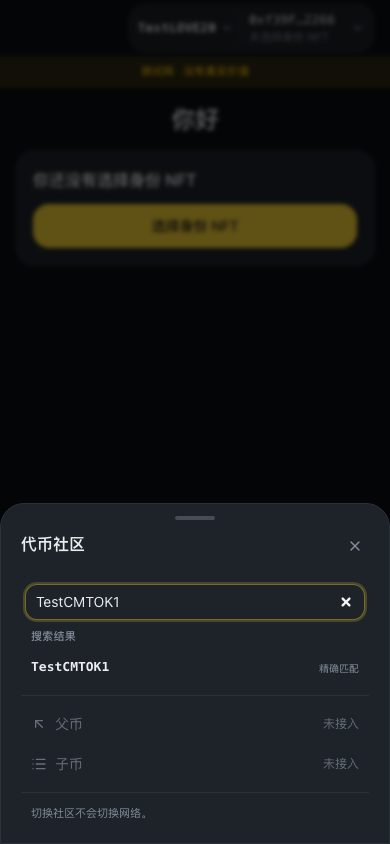
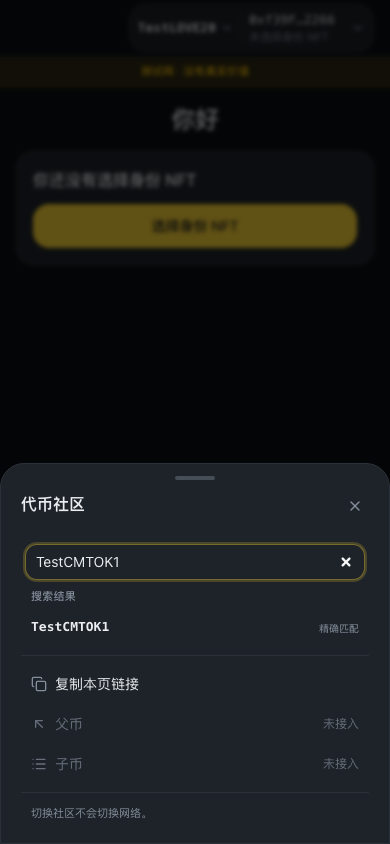
fix(ui): 走查建议执行——错网络保留社区名、复制本页链接、规范回写与链健康探测
owner 2026-11-22 采纳「全按建议做」：
- P2-9 错网络态保留社区名 chip（`header-community-context`）+ 右侧切换按钮
  （mUX §1.4；此状态 chip 只作上下文、不开菜单）
- P2-8b 社区菜单新增「复制本页链接」（`community-copy-link`，带已复制/失败反馈）
- P2-8a 规范回写：钱包弹层不再要求「合约地址」入口，统一走 `/about`
  （mUX §1.6 第 7 项 + 侧栏那条同步）
- P3-2 build id 显示 8 位短 id，完整值进 title
- P3-3 `/about` 地址表补「批量转账」「一键加池（Hub）」（22→24，单测同步）
- P3-4 未授权行撤销按钮补 title
- 新规范 §4.9「空态不给肯定结论」+ §4.8 检查清单（本轮 3 处同类缺陷的根因收口）
- `scripts/e2e-chain.mjs` 复用链前采样 block 两次，假死链给 WARNING + doctor/reset 提示

验证：pnpm check 941 passed / 128 文件；目标 e2e（首页+我的 NFT、批量转账、
社区切换、关于、授权、主题）**66/66**；全量 e2e **167/167（12.1m，EXIT 0）**。

Changed region(s): [[0.0, 0.5237, 1.0, 0.8318]]

diff --git a/src/widgets/connect-pill/community-menu-content.tsx b/src/widgets/connect-pill/community-menu-content.tsx
@@ -1,6 +1,7 @@
 import { useState } from 'react';
-import { ArrowUpLeft, List } from '@/shared/ui/icons';
+import { ArrowUpLeft, Copy, List } from '@/shared/ui/icons';
 import { copy } from '@/shared/config/copy-pages';
+import { copyText } from '@/shared/lib/clipboard';
 import { cn } from '@/shared/lib/cn';
 import { Separator } from '@/shared/ui/separator';
 import { useCommunitySymbolSearch } from '@/features/switch-community/model/use-community-symbol-search';
@@ -50,7 +51,14 @@ export function CommunityMenuContent({
 }: CommunityMenuContentProps) {
   const { recent } = useRecentCommunities();
   const [query, setQuery] = useState('');
+  const [linkState, setLinkState] = useState<'idle' | 'copied' | 'failed'>('idle');
   const search = useCommunitySymbolSearch(query);
+
+  const copyPageLink = async () => {
+    const ok = await copyText(window.location.href);
+    setLinkState(ok ? 'copied' : 'failed');
+    if (ok) window.setTimeout(() => setLinkState('idle'), 2000);
+  };
   const others = recent.filter((entry) => entry.symbol !== currentSymbol);
   const searching = search.status !== 'idle';
 
@@ -179,6 +187,30 @@ export function CommunityMenuContent({
       )}
 
       <Separator className="my-2" />
+      <button
+        type="button"
+        data-testid="community-copy-link"
+        onClick={() => {
+          void copyPageLink();
+        }}
+        className={cn(
+          'flex w-full items-center gap-2 rounded-xl px-2.5 py-2.5 text-left text-sm',
+          'hover:bg-elevated focus-visible:outline-none focus-visible:ring-2 focus-visible:ring-brand-strong',
+        )}
+      >
+        <Copy className="h-4 w-4 text-muted" aria-hidden="true" />
+        <span className="flex-1">{copy.community.copyLink}</span>
+        {linkState === 'copied' ? (
+          <span className="text-[11px] text-success" role="status">
+            {copy.community.linkCopied}
+          </span>
+        ) : null}
+        {linkState === 'failed' ? (
+          <span className="text-[11px] text-danger-strong" role="alert">
+            {copy.community.linkCopyFailed}
+          </span>
+        ) : null}
+      </button>
       <StubRow
         icon={<ArrowUpLeft className="h-4 w-4" />}
         label={copy.community.parent}

diff --git a/src/widgets/connect-pill/connect-pill.tsx b/src/widgets/connect-pill/connect-pill.tsx
@@ -51,7 +51,25 @@ export function ConnectPill() {
 
   // D11: the injected wallet's own chain answers before the dapp is connected,
   // so an installed wallet on another chain gets the switch pill, not 「连接钱包」.
-  if (wallet.isWrongChain) return <WrongNetworkButton />;
+  // 走查 2026-11-21（P2-9）：错网络时只留一个切换按钮会让用户丢失「我在哪个社区」
+  // （移动端尤其，chip 是唯一社区名位置）。按 §1.4「已连接含错网络 = chip + 地址区」，
+  // 这里保留社区名，右侧换成切换按钮；此状态下 chip 只作上下文展示、不开菜单
+  // （钱包不可用时开社区菜单也没有可用的链上数据）。
+  if (wallet.isWrongChain) {
+    return (
+      <div className="inline-flex h-12 max-w-full min-w-0 items-center gap-2 overflow-hidden rounded-2xl border border-line bg-surface/85 px-3 shadow-sm backdrop-blur">
+        <span
+          data-testid="header-community-context"
+          className="max-w-[96px] truncate font-mono text-[13px] font-semibold text-foreground"
+          title={copy.community.menuTitle}
+        >
+          {chipSymbol}
+        </span>
+        <span className="h-5 w-px shrink-0 bg-line" aria-hidden="true" />
+        <WrongNetworkButton />
+      </div>
+    );
+  }
   if (!wallet.isConnected) {
     return <ConnectWalletButton variant="secondary" className="rounded-full" />;
   }

diff --git a/src/shared/config/copy-pages.ts b/src/shared/config/copy-pages.ts
@@ -74,6 +74,10 @@ export const copy = {
     searchError: '社区列表暂时读不到。',
     searchExact: '精确匹配',
     searchCurrent: '当前',
+    /** 走查 2026-11-21（P2-8b）：规范 §1.5 要求社区菜单能复制本页链接（分享社区入口）。 */
+    copyLink: '复制本页链接',
+    linkCopied: '链接已复制',
+    linkCopyFailed: '复制失败，请手动复制地址栏链接。',
   },
   /** M0 placeholder pages (行动 / 链群 / 我的): only titles are needed by the eager header. */
   placeholders: {
@@ -958,6 +962,7 @@ export const copy = {
     addressCopied: '已复制',
     copyFailed: '复制失败，请手动选中地址',
     revoke: '撤销',
+    revokeDisabled: '当前没有可撤销的授权',
     unlimitedAction: '长期授权',
     preferenceLabel: '默认使用长期授权',
     preferenceBody:
@@ -1151,6 +1156,8 @@ export const copy = {
         groupActionExecutor: '链群行动执行器',
         groupServiceExecutor: '链群服务执行器',
         lpExecutor: 'LP 执行器',
+        batchTransfer: '批量转账',
+        hub: '一键加池',
         groupChat: '链群聊天',
         groupChatMember: '链群成员',
         groupChatAdmin: '链群管理',

diff --git a/src/features/approve-token/ui/approval-panel.tsx b/src/features/approve-token/ui/approval-panel.tsx
@@ -632,6 +632,11 @@ export function ApprovalsPanel({ isConnected, isWrongChain, connectAction }: App
                     size="sm"
                     variant="secondary"
                     data-testid="approvals-custom-revoke"
+                    title={
+                      !canRevokeAllowance(customAllowance)
+                        ? copy.approvals.revokeDisabled
+                        : undefined
+                    }
                     disabled={busy || !canRevokeAllowance(customAllowance)}
                     onClick={() => openAction(customSpender, customSpenderLabel, 'revoke')}
                   >
@@ -742,6 +747,9 @@ export function ApprovalsPanel({ isConnected, isWrongChain, connectAction }: App
                         size="sm"
                         variant="secondary"
                         data-testid={`approvals-revoke-${spender.id}`}
+                        title={
+                          !canRevokeAllowance(allowance) ? copy.approvals.revokeDisabled : undefined
+                        }
                         disabled={busy || !canRevokeAllowance(allowance)}
                         onClick={() => openAction(spender.address, item.label, 'revoke')}
                       >

diff --git a/src/domain/about-addresses.test.ts b/src/domain/about-addresses.test.ts
@@ -22,7 +22,8 @@ describe('about address groups', () => {
     const keys = ABOUT_ADDRESS_GROUPS.flatMap((group) => group.entries);
 
     expect(new Set(keys).size).toBe(keys.length);
-    expect(keys).toHaveLength(22);
+    // 走查 2026-11-21（P3-3）：补了「批量转账」「一键加池」，22 → 24。
+    expect(keys).toHaveLength(24);
     expect(ABOUT_ADDRESS_GROUPS.map((group) => group.key)).toEqual([
       'core',
       'tokenIdentity',
@@ -37,7 +38,7 @@ describe('about address groups', () => {
     const groups = resolveAboutAddressGroups(book, 'https://bscscan.com');
 
     const rows = groups.flatMap((group) => group.rows);
-    expect(rows).toHaveLength(22);
+    expect(rows).toHaveLength(24);
     const member = rows.find((row) => row.key === 'memberNFT');
     const airdrop = rows.find((row) => row.key === 'airdropDistributor');
     expect(member?.address).toBeUndefined();

diff --git a/src/domain/about-addresses.ts b/src/domain/about-addresses.ts
@@ -30,6 +30,8 @@ export type AboutAddressKey =
   | 'groupActionExecutor'
   | 'groupServiceExecutor'
   | 'lpExecutor'
+  | 'batchTransfer'
+  | 'hub'
   | 'airdropDistributor';
 
 export type AboutAddressGroupKey = 'core' | 'tokenIdentity' | 'trade' | 'groupChat' | 'other';
@@ -68,6 +70,8 @@ export const ABOUT_ADDRESS_GROUPS: readonly AboutAddressGroupDefinition[] = Obje
       'groupActionExecutor',
       'groupServiceExecutor',
       'lpExecutor',
+      'batchTransfer',
+      'hub',
       'airdropDistributor',
     ],
   },

diff --git a/src/pages/about/about-page.tsx b/src/pages/about/about-page.tsx
@@ -291,7 +291,9 @@ function DataPanel({ symbol }: { readonly symbol: string }) {
         {renderValue(data.phase, (value) => formatPhaseValue(value))}
       </DataRow>
       <DataRow label={copy.about.data.appVersion}>{variantLabel(APP_ENV.variant)}</DataRow>
-      <DataRow label={copy.about.data.buildNumber}>{formatBuildId(BUILD_ID)}</DataRow>
+      <DataRow label={copy.about.data.buildNumber}>
+        <span title={BUILD_ID}>{formatBuildId(BUILD_ID)}</span>
+      </DataRow>
     </dl>
   );
 }

diff --git a/src/shared/lib/format.ts b/src/shared/lib/format.ts
@@ -206,5 +206,7 @@ export function formatTokenAmount(
  * from silently pinning the browser locale.
  */
 export function formatBuildId(buildId: string): string {
-  return buildId.length > 12 ? buildId.slice(0, 12) : buildId;
+  // 走查 2026-11-21（P3-2）：截 12 位会切在时间戳中间（`mwqjfm06-6f2` 像乱码）。
+  // 只显示时间戳前缀（8 位），完整 build id 由调用方放进 `title` 供定位构建。
+  return buildId.length > 8 ? buildId.slice(0, 8) : buildId;
 }

diff --git a/src/app/shell/desktop-sidebar.tsx b/src/app/shell/desktop-sidebar.tsx
@@ -108,7 +108,7 @@ export function DesktopSidebar({ collapsed, onToggle }: DesktopSidebarProps) {
                 {variantLabel(APP_ENV.variant)}
               </Badge>
             </div>
-            <p className="font-mono text-[10px] text-muted">
+            <p className="font-mono text-[10px] text-muted" title={BUILD_ID}>
               {copy.build.version(formatBuildId(BUILD_ID))}
             </p>
           </div>

diff --git a/docs/STATUS.md b/docs/STATUS.md
@@ -56,6 +56,8 @@ M0 范围共 6 项（[m0-scope](product/m0-scope.md)「范围内」）。✅ 完
 
 | — | 2026-11-22 全站走查（ego-browser，26/26 路由）+ 缺陷修复 | ✅ | owner 要求「起一个 agent 用 ego Browser 把所有页面、所有操作走一遍，看功能/文案/数值（三线）/样式」。走查报告：[reviews/full-site-walkthrough-2026-11-21.md](reviews/full-site-walkthrough-2026-11-21.md)（覆盖矩阵、17 条发现、24 项数值三线对照、105 张证据截图在 `/tmp/full-walkthrough/`）。结论：**0 P0**，主流程全部可跑通；24 项三线抽检 22 项逐字一致。修复（13 条）：**P1-1** 资格句百分比丢 `%`（0.5% 被读成 0.5 倍）→ `submitRatioPercent` 自带 `%` + 4 条单测；**P1-2** 点「设为当前身份」后页头药丸停在「—」→ 选中 token 不在枚举列表时单读 `memberName` 回填 + e2e 断言；**P2**：空投已铸造态 CTA 按有无身份分流（去治理/去铸造）、404 页头标题、投票页无额度错误口吻、投票超额即时给原因、提案页门槛重复两行、质押页空表单首屏报红、空态断言「不需要授权」（add/stake liquidity 均改）、pending 文案时间基准；**P3-5** 「铸造 治理激励」空格。待 owner 拍板：P2-8 规范/实现漂移（钱包弹层「合约地址」、社区菜单「复制本页链接」）、P2-9 移动端错网络无社区名（§1.3 与 §1.4 冲突）。backlog：P3-2 build id 截断显示、P3-3 `/about` 缺两条合约地址、P3-4 禁用「撤销」无 title。验证：`pnpm check` **941 passed / 128 文件**；受影响 e2e 逐项复跑（见提交信息）；期间 8555 anvil 假死一次，按 playbook `pnpm e2e:reset-chain` 恢复（与代码无关）。 |
 
+| — | 2026-11-22 走查建议执行（P2-8/P2-9 + P3 + 规范/脚本） | ✅ | owner 采纳「全按建议做」：① **P2-9** 错网络态保留社区名 chip（`header-community-context`）+ 右侧切换按钮（按 mUX §1.4，不再让移动端丢社区归属；chip 此状态只作上下文、不开菜单）；② **P2-8b** 社区菜单新增「复制本页链接」（`community-copy-link` + 「链接已复制 / 复制失败」）；③ **P2-8a** 规范回写：钱包弹层不再要求「合约地址」入口，统一走 `/about`（mUX §1.6 第 7 项 + 侧栏那条）；④ **P3-2** build id 显示 8 位短 id、完整值进 `title`；⑤ **P3-3** `/about` 地址表补「批量转账」「一键加池（Hub）」（22→24 槽，单测同步）；⑥ **P3-4** 未授权行撤销按钮补 `title`；⑦ **新规范 §4.9「空态不给肯定结论」**（frontend-standards，含口诀与实现约定 + §4.8 清单）；⑧ `scripts/e2e-chain.mjs` 复用链前加 `warnWhenChainIsFrozen`（采样 block，假死时 WARNING + doctor/reset 提示，不误杀慢链）。验证：`pnpm check` **941 passed / 128 文件**；目标 e2e（首页/我的 NFT、批量转账、社区切换、关于、授权、主题）+ 全量 e2e；文档 [reviews/full-site-walkthrough-2026-11-21.md](reviews/full-site-walkthrough-2026-11-21.md) §8.1/§8.2 同步。 |
+
 **未完成清单（别误读为 done）**：三处真机体验、test/prod 地址簿填充（协议尚未在 BSC 测试网/主网部署，两个变体的五个应用页按「未配置」禁用入口）、M1 的**行动域**（回调提案的推举/投票、验证、链群行动；core 的投票/推举/治理激励/提案激励已于 2026-11-21 实装）。e2e 已隔离到独立 8555 链（§6.1）；包体 prod **159.3** / dev **160.7** kB gzip（2026-11-19 收尾实测；2026-11-17 治理页后为 159.6/161.0；2026-11-16 把钱包菜单/社区菜单/弹层/占位页/404/版本提示文案移到 `copy-pages` 懒加载；dev 预算 161 = 160 + 1 kB 部署数据豁免，§6.2；新增 `gov-page` 懒加载 chunk 不占首屏）；ABI manifest 与漂移门禁已补（§6.5）。
 
 截图共 **235** 张（2026-11-21 实测：`find docs/product/screenshots -name '*.png' | wc -l` = 235；= 207 + 28 张 `gov-core-*`（含 4 张我的投票卡、4 张投票记录页）− 4 张 `/vote` 占位图 + 4 张 `gov-verify-placeholder-*`（占位样例改到 `/verify`），其中顶层 `ls docs/product/screenshots/*.png` 226 张 + `live/` 1 张；本轮 **167 张已按默认深色重拍、总数不变**；按前缀：home 7 / airdrop 10 / mint 4 / my-nft 5 / swap 21 / transfer 29（含转让抽屉 5、恢复流程 8）/ about 4 / apps 1 / me 3 / approvals 13 / batch-transfer 20 / liquidity 20 / theme 12 / tx-recovery 1 / global-actions 24 / gov-home 8（`gov-home-{mine,community}-{light,dark}-{mobile,desktop}`）/ me-stake 4（`me-stake-{light,dark}-{mobile,desktop}`，2026-11-18 23:20 新增）/ stake-lp 4 / stake-token 4 / unstake 4 / gov-core 28（2026-11-21 新增：投票/推举/治理激励/提案激励 × 5 状态 × 四档 + 首页我的投票卡 4 张 + 投票记录页 4 张）/ gov-verify-placeholder 4（原 `/vote` 占位样例改 `/verify`；治理域共 28 张新图；旧的 `gov-{stake,mine,boost-locked}` 12 张已随多页面 IA 重写删除）/ wallet-menu 2 / wallet-no-wallet 1 / community-search 1 / live 1），见 [`product/screenshots/`](product/screenshots/)。本次核对用到的文件：`home-identity-error.png`、`home-no-identity.png`、`swap-form.png`、`mint-form.png`、`airdrop-eligible.png`、`gov-home-mine-light-mobile.png`、`me-stake-light-mobile.png`、`stake-lp-light-mobile.png`、`unstake-light-mobile.png`、[`live/interface-test-live-2026-11-11.png`](product/screenshots/live/interface-test-live-2026-11-11.png)。

diff --git a/docs/product/reviews/full-site-walkthrough-2026-11-21.md b/docs/product/reviews/full-site-walkthrough-2026-11-21.md
@@ -351,12 +351,21 @@
 | P2-7 空态断言「不需要授权」 | ✅ 已修 | `add-liquidity-panel.tsx` / `stake-liquidity-panel.tsx`：没输入数量时不渲染授权行（既有授权阶梯逻辑不变）；更新 `D8` 单测并补「空态不渲染」断言 | 单测（69 条） + `global-actions-screens`（改为先填金额再断言） |
 | P2-10 pending 文案时间基准 | ✅ 已修 | `copy.txWatch.pending.remaining` 改成「再等约 N 秒仍没有结果的话，可以重新提交一笔。」 | `pnpm check` |
 | P3-5 「铸造 治理激励」空格 | ✅ 已修 | 去掉中间空格 | `pnpm check` |
-| P2-8 规范/实现漂移（钱包弹层缺「合约地址」、社区菜单缺「复制本页链接」） | ⏳ 待 owner 拍板 | 是有意精简还是漏实现？若有意 → 回写 mUX §1.5/§1.6；若漏 → 补实现（`/about` 已有地址数据可复用） | — |
-| P2-9 移动端错网络无社区名 | ⏳ 待 owner 拍板 | §1.4 与 §1.3 互相矛盾：错网络时是否保留 chip（或恢复移动端 wordmark） | — |
+| P2-8a 钱包弹层缺「合约地址」入口 | ✅ 按建议**回写规范** | mUX §1.6 第 7 项与侧栏那条改为「合约地址统一在 `/about`；钱包弹层不再有第二个弹层」。理由：钱包弹层是高频小面，合约地址是低频核验动作 | 文档 |
+| P2-8b 社区菜单缺「复制本页链接」 | ✅ 已修 | 社区菜单新增 `community-copy-link`（`copyText(window.location.href)` + 「链接已复制 / 复制失败」反馈） | 目标 e2e（社区菜单）+ 手动复核 |
+| P2-9 移动端错网络无社区名 | ✅ 已修（按 §1.4） | 错网络态保留社区名 chip（`header-community-context`）+ 右侧「网络不对，点此切换」；chip 在此状态只作上下文、不开菜单 | 目标 e2e（batch-transfer 的 D11 错网络用例 + home-my-nft） |
 | P3-1 占比 49.99% 截断 | 维持现状 | 规范 §4.5.1 明确「截断不四舍五入」，非缺陷 | — |
-| P3-2 build id 显示 12 字符 | backlog | 建议改为「版本 2026-11-21 · mwqjfm06」或完整 id | — |
-| P3-3 `/about` 缺两条合约地址 | backlog | 批量转账 / 一键加池（Hub） | — |
-| P3-4 禁用「撤销」无 title | backlog | 给 `title="当前没有可撤销的授权"` | — |
+| P3-2 build id 显示 12 字符 | ✅ 已修 | `formatBuildId` 改为 8 位短 id（`mwqjfm06`），完整 id 放进 `title`（侧栏与 `/about`） | 单测 / `pnpm check` |
+| P3-3 `/about` 缺两条合约地址 | ✅ 已修 | 地址表补「批量转账」「一键加池（Hub）」（22 → 24 槽，单测同步） | 单测（4/4） |
+| P3-4 禁用「撤销」无 title | ✅ 已修 | 未授权行撤销按钮补 `title="当前没有可撤销的授权"` | `pnpm check` |
+
+### §8.2 顺手做的三个系统性改进
+
+| 项 | 内容 |
+| --- | --- |
+| 新规范 §4.9「空态不给肯定结论」 | 写进 [frontend-standards](../engineering/frontend-standards.md) §4.9 + §4.8 检查清单：输入/价格未就绪时，结论行、错误行、授权行都不渲染；口诀「这句话在用户什么都没填时是否仍然成立」。并说明「每修一处空态要补一条单测/e2e 断言」 |
+| `pnpm e2e` 复用链前加健康探测 | `scripts/e2e-chain.mjs` 复用分支新增 `warnWhenChainIsFrozen`：采样 block 两次，链假死时打 WARNING 并给出 `e2e-chain-doctor` / `e2e:reset-chain` 提示（不误杀慢链） |
+| 「加速上限」复核缺口 | 不需要改：`scripts/verify/gov-stake-contract.mjs` 的 C2 已有 `boostStakeCap.memberCap / memberUsed` 断言并通过（走查里那条是它自己签名写错，不是覆盖缺口），已在报告 §3 注明 |
 
 ### §8.1 验证（修复后）
 

diff --git a/docs/product/m0-ux-spec.md b/docs/product/m0-ux-spec.md
@@ -40,7 +40,7 @@
 - **「应用」取代「链群」（2026-11-11 owner 决定）**：第 2 项是功能页目录 `/apps?symbol=`（图标 `LayoutGrid`），把创世空投、身份 NFT、代币兑换以及今后独立的功能页集中管理。**未来页面只加一条目录数据，不加导航代码**；功能页多起来后按条目的 `category` 自动分组（≥2 个分类才出现分组标题）。`/group` 路由保留给旧深链（占位页，不 404），但底栏不再出现「链群」。
 
 - 移动端：24px 图标 + 11px 标签，激活态用实心图标 + 强调色；**不做中央凸起**——凸起会把一个不可用功能伪装成主入口（参考实现把「社区行动」凸起，实际是 M2 能力）。
-- 桌面侧栏：5 项同序，激活项左侧 3px 指示条；顶部折叠按钮，折叠状态记在 `love20:v1:<chainId>:ui:<wallet>:sidebar`；底部放版本号 + 测试网徽标 + 「合约地址」入口（与钱包弹层同一弹层）。
+- 桌面侧栏：5 项同序，激活项左侧 3px 指示条；顶部折叠按钮，折叠状态记在 `love20:v1:<chainId>:ui:<wallet>:sidebar`；底部放版本号 + 测试网徽标；合约地址统一在 `/about` 的「合约地址」页（走查 2026-11-21 起不再从钱包弹层进入）。
 - **占位页不是空白**：标题 + 「即将上线」徽标 + 一句将提供什么 + 「回首页」。徽标已经说明「现在没有」，正文不重复。文案：行动「链群行动、链群服务、LP 行动。」；`/group` 旧深链「链群是身份 NFT 组成的协作单位。」。**治理自 2026-11-17 起是真实页（§3.14），不再是占位页**；我的也不再是占位页：它承接钱包余额与质押资产（§3.7），底栏与侧栏也不再给它「即将上线」标记。
 - 底部栏不显示徽标计数；经典「红点」留给以后有真实未读时再用。
 - **治理域子路由（owner 2026-11-19 四轮改名）**：一级导航只有「治理」一项（`/gov`）；治理域内部五个路由是 `/gov`、`/stake/liquidity`（流动性质押；**旧路径 `/stake/stakelp` 不做兼容、直接 404**）、`/stake/staketoken`（加速激励质押）、`/stake/unstake`（页面名**「申请解锁」**）、`/stake/liquid`（只读数据）。改名只动路由与页面名，页面内容见 §3.14。
@@ -115,7 +115,7 @@
 4. 余额两行：**原生币余额在前**（`{nativeCurrency.symbol} 余额`）、**社区代币余额在后**（`{symbol} 余额`，按 `decimals()` 展示、精确值）；读不到时按状态给骨架 /「未配置」/「读不到」，不渲染 `0`。**不再有**「{原生币} 用于支付网络手续费」那行小字（owner 2026-11-19 删除）。
 5. 分隔线。
 6. 「进行中的操作 {n}」（仅有任务时出现）→ 任务抽屉（§4.2）。
-7. 「合约地址」→ 弹层：链 ID、LOVE20、MemberNFT、Airdrop、Router、交易对地址 + 区块浏览器链接 + 逐项复制（信任信号，B-5）。
+7. ~~「合约地址」→ 弹层~~（owner 2026-11-21 走查后确认**不在钱包弹层里**实现）：钱包弹层只放「地址 / 网络 / 身份 / 两种余额 / 断开」这些高频项；合约地址统一在 [`/about`](§3.8) 的「合约地址」页查看 + 逐项复制（该页已覆盖全部地址簿槽位）。如需一个信任入口，从 `/about` 或侧栏进入，不再往钱包弹层加第二个弹层。
 8. 分隔线。
 9. 「断开连接」（危险色）。
 10. 页脚小字：「当前身份 NFT 保存在这台设备；换浏览器需要重新选择。」
